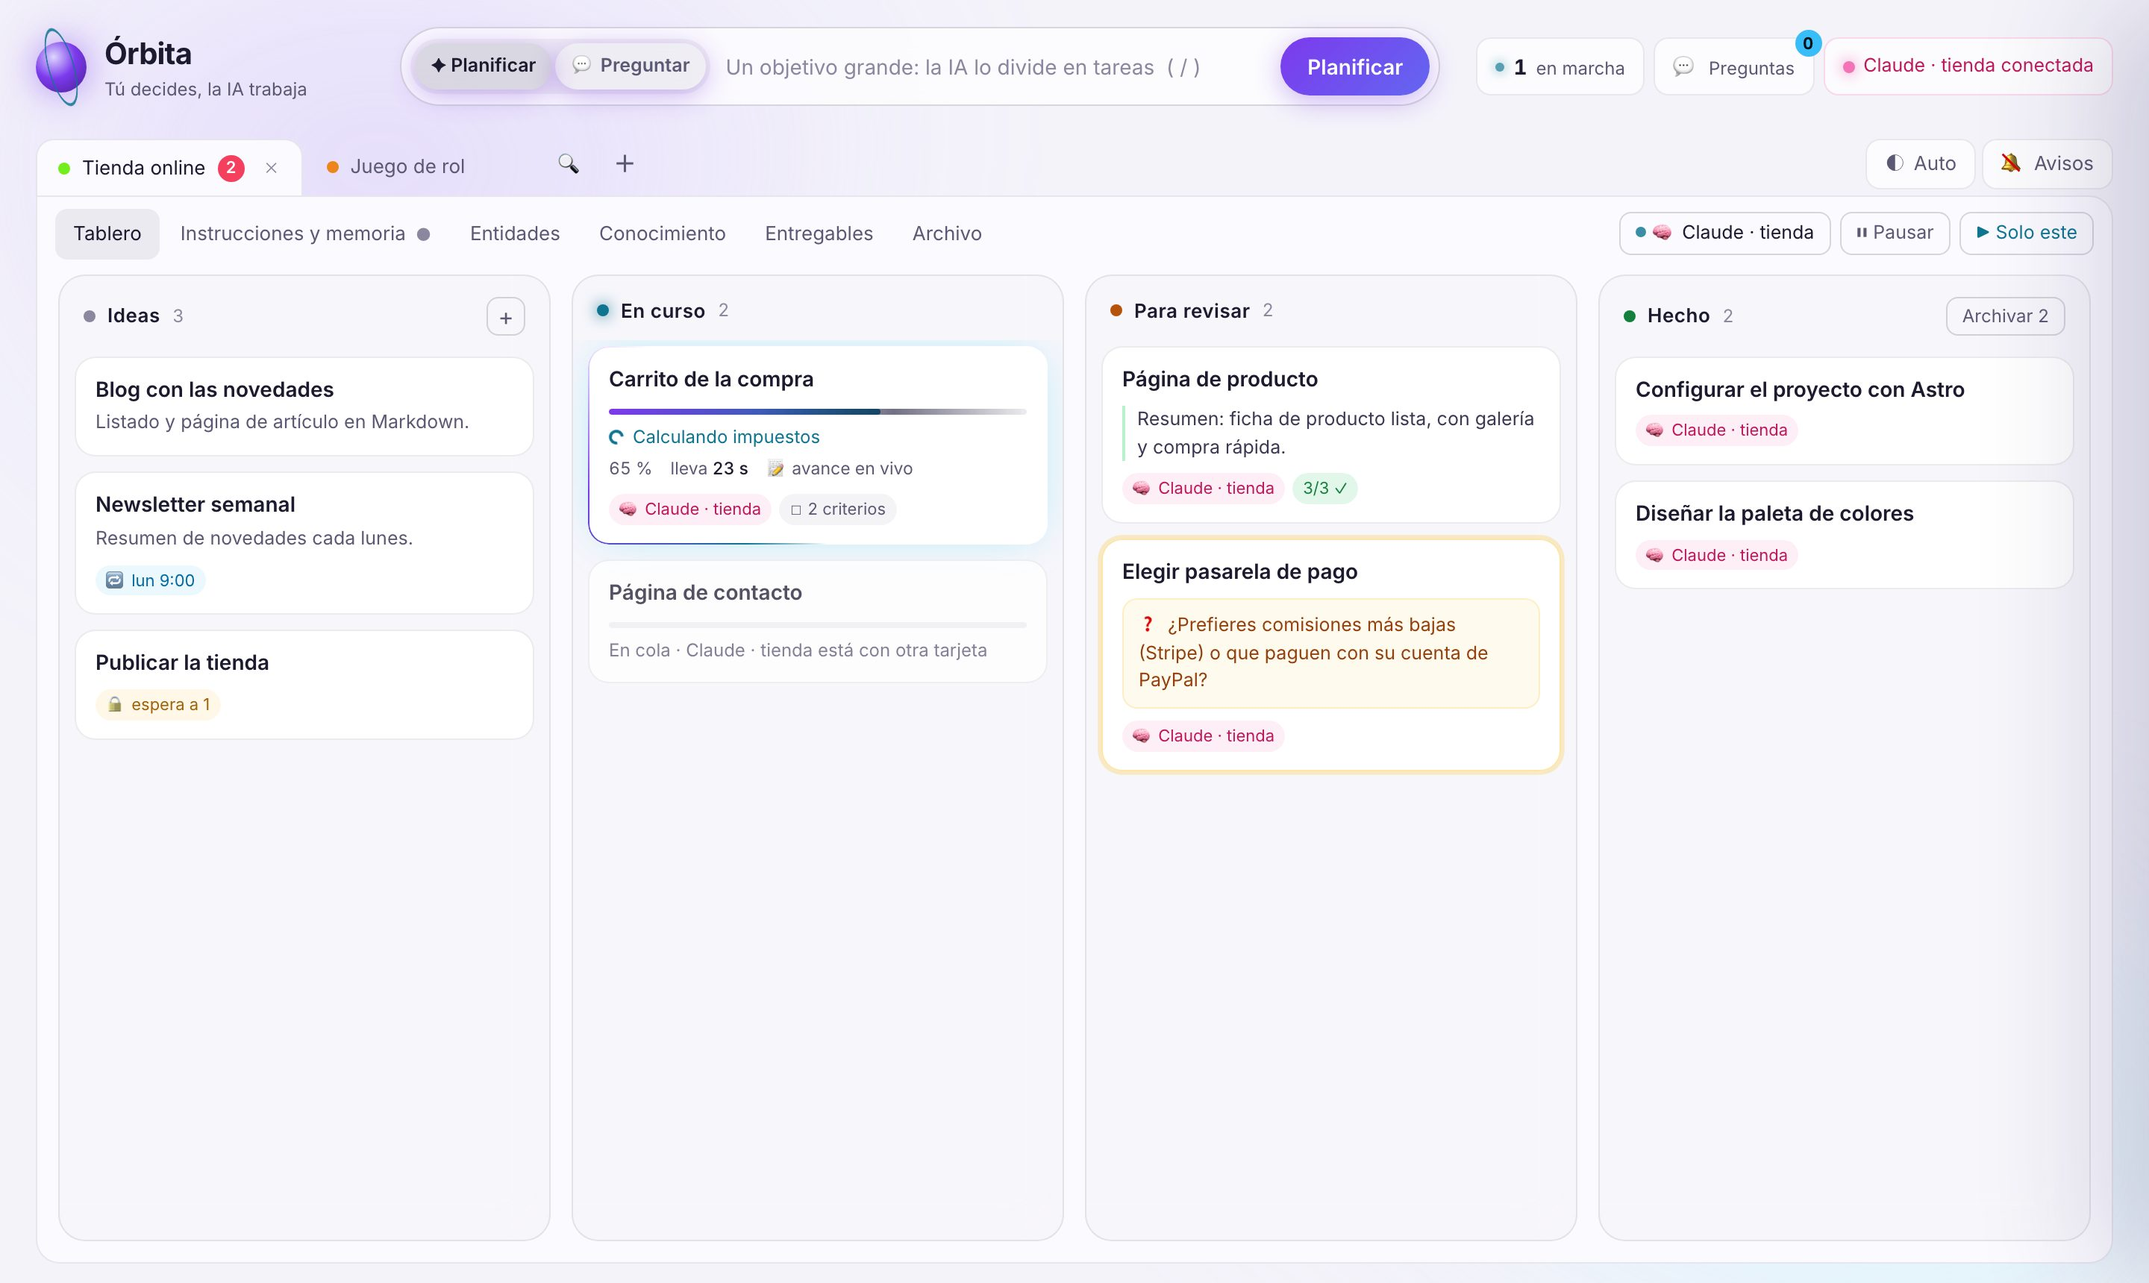
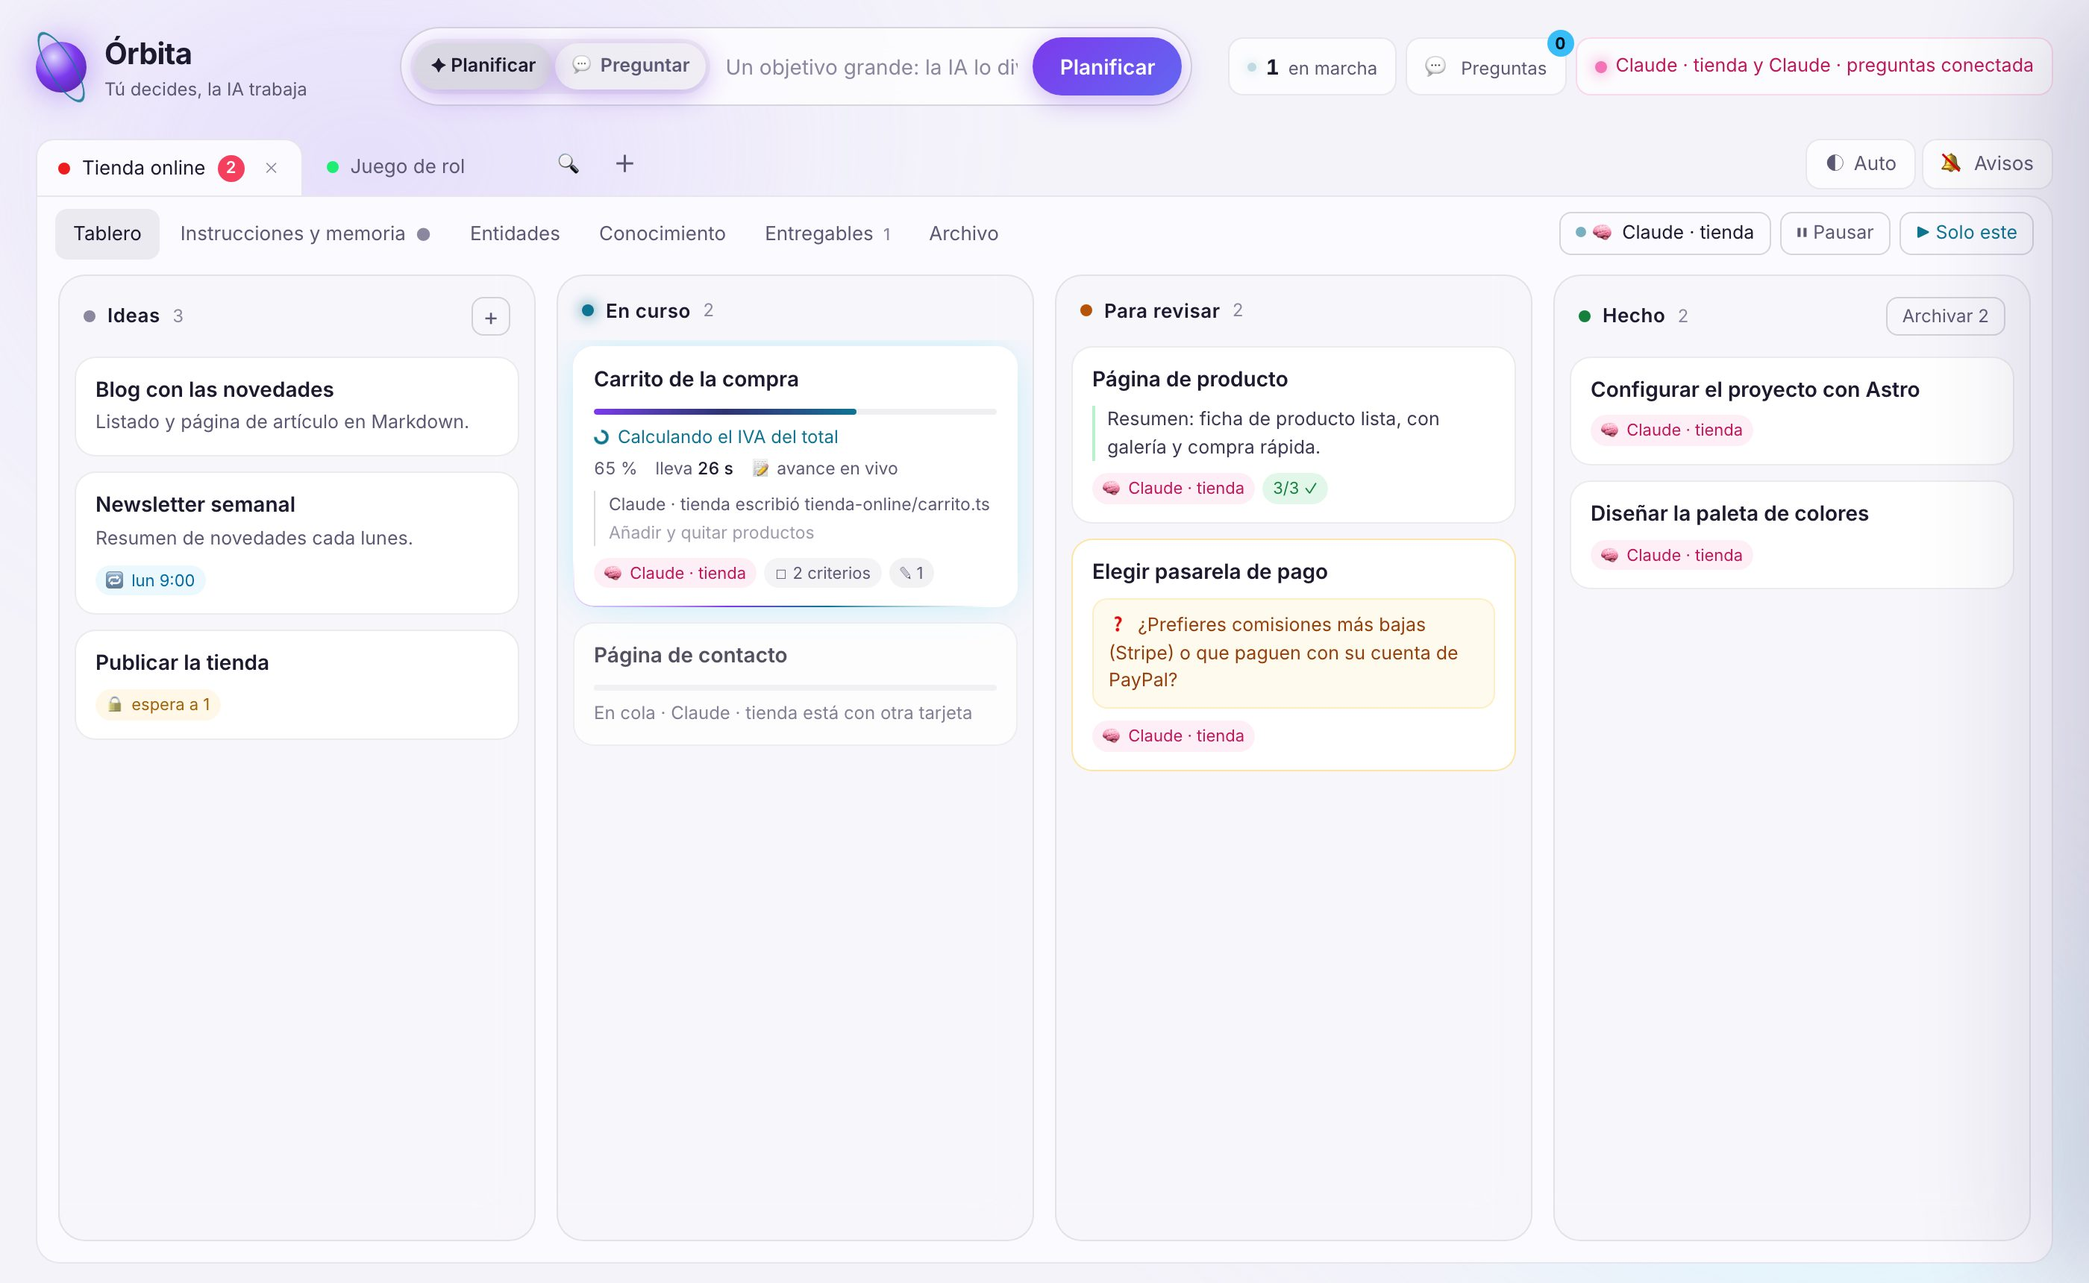
Web: ciclo de una tarjeta, usos, herramientas de la IA y por dentro
Capturas nuevas (En vivo, preguntas de la IA, preguntas rápidas) y secciones
para la vida de una tarjeta, para qué sirve, las herramientas MCP de la IA,
cómo funciona por dentro, atajos, requisitos, configuración de otras IAs y
más preguntas frecuentes.

diff --git a/web/index.html b/web/index.html
@@ -17,7 +17,8 @@
     <nav aria-label="Secciones">
       <a href="#como">Cómo funciona</a>
       <a href="#funciones">Qué hace</a>
-      <a href="#privacidad">Privacidad</a>
+      <a href="#usos">Para qué</a>
+      <a href="#dentro">Por dentro</a>
       <a href="#empezar" class="boton pequeno">Empezar</a>
     </nav>
   </header>
@@ -73,6 +74,14 @@
         <div class="nodo"><b>Tu IA</b><span>Claude Code, Cursor…</span></div>
         <div class="carpeta"><b>📁 carpeta del proyecto</b><span>tu código y <code>orbita/</code> con el tablero y los entregables</span></div>
       </div>
+
+      <h3 class="titulo-bloque">La vida de una tarjeta</h3>
+      <ol class="ciclo">
+        <li class="c-ideas"><b>Ideas</b><span>La creas tú (o la IA, al planificar un objetivo). Puede llevar criterios, adjuntos, dependencias o repetirse cada semana.</span></li>
+        <li class="c-curso"><b>En curso</b><span><i>En cola</i> hasta que una IA la toma; luego <i>Trabajando</i>, con su progreso en vivo. Si le falta algo, <i>Te pregunta</i> y espera.</span></li>
+        <li class="c-revisar"><b>Para revisar</b><span>La IA entrega el resultado y revisa cada criterio. Tú lees, y <i>Apruebas</i> o le <i>Respondes</i>: vuelve a «En curso» con tu mensaje.</span></li>
+        <li class="c-hecho"><b>Hecho</b><span>Queda con todas sus versiones. Si otras tarjetas la esperaban, se desbloquean solas. Luego se archiva.</span></li>
+      </ol>
     </section>
 
     <section id="funciones" class="seccion">
@@ -80,9 +89,15 @@
       <div class="destacado">
         <div class="texto">
           <h3>La ves trabajar, en vivo</h3>
-          <p>Cada tarjeta muestra el paso actual, el porcentaje y cuánto lleva. En su panel, la pestaña <b>En vivo</b> enseña lo que va produciendo antes de entregar. Si le escribes mientras trabaja, lo lee en su siguiente paso, sin detenerse.</p>
+          <p>Cada tarjeta muestra el paso actual, el porcentaje y cuánto lleva. En su panel, la pestaña <b>En vivo</b> reúne todo:</p>
+          <ul class="lista">
+            <li>el paso, la barra de progreso y <b>hace cuánto dio señales de vida</b> (si se calla más de 3 minutos, te avisa);</li>
+            <li>su avance escrito: lo hecho, lo que hace ahora y lo que sigue;</li>
+            <li>la <b>historia de pasos</b> y los archivos que va escribiendo.</li>
+          </ul>
+          <p>Si le escribes mientras trabaja, lo lee en su siguiente paso, sin detenerse.</p>
         </div>
-        <figure class="captura"><img src="img/panel-en-vivo.jpg" width="1360" height="1100" loading="lazy" alt="Panel de una tarjeta en curso con su avance en vivo" /></figure>
+        <figure class="captura"><img src="img/panel-en-vivo.jpg" width="1360" height="1640" loading="lazy" alt="Panel de una tarjeta en curso con su avance en vivo" /></figure>
       </div>
       <div class="destacado al-reves">
         <div class="texto">
@@ -98,6 +113,20 @@
         </div>
         <figure class="captura"><img src="img/entidades.jpg" width="2400" height="1650" loading="lazy" alt="Entidades de un juego de rol agrupadas por categoría: personajes, armas, objetos" /></figure>
       </div>
+      <div class="destacado al-reves">
+        <div class="texto">
+          <h3>Te pregunta cuando le falta algo</h3>
+          <p>Si la IA necesita una decisión que solo tú puedes tomar, la tarjeta se pone en ámbar y te lo pregunta. Respondes ahí mismo y sigue. Todo pasa en el tablero: nunca tienes que ir a su chat.</p>
+        </div>
+        <figure class="captura"><img src="img/panel-pregunta.jpg" width="1360" height="1040" loading="lazy" alt="Una tarjeta en la que la IA pregunta qué pasarela de pago prefieres" /></figure>
+      </div>
+      <div class="destacado">
+        <div class="texto">
+          <h3>Preguntas rápidas</h3>
+          <p>Para lo que no merece una tarjeta: pregúntale y responde al momento, con el contexto del proyecto (sus instrucciones, su memoria y sus archivos de referencia). Puedes dejar una IA dedicada solo a esto, y cualquier respuesta se convierte en tarjeta con un clic.</p>
+        </div>
+        <figure class="captura"><img src="img/preguntas.jpg" width="1360" height="900" loading="lazy" alt="Panel de preguntas rápidas con una respuesta de la IA" /></figure>
+      </div>
 
       <ul class="rejilla">
         <li><b>🧠 Una IA por proyecto</b><span>Dos proyectos avanzan a la vez, cada uno con su sesión de IA.</span></li>
@@ -108,7 +137,68 @@
         <li><b>⌘K Búsqueda y comandos</b><span>Busca en todo (también lo archivado) y haz cualquier cosa sin el ratón.</span></li>
         <li><b>▶ Vista previa segura</b><span>Las páginas y juegos que hace la IA funcionan dentro, aislados del tablero.</span></li>
         <li><b>↻ Versiones y exportar</b><span>Cada entrega es una versión; cópiala, descárgala en .md, como página o en PDF.</span></li>
+        <li><b>🔒 Dependencias</b><span>«Espera a…»: una tarjeta no empieza hasta que terminan aquellas de las que depende.</span></li>
+        <li><b>⏸ Pausa y prioridad</b><span>Pausa un proyecto o dale prioridad total con «Solo este». La IA lo retoma donde lo dejó.</span></li>
+        <li><b>📎 Adjuntos y conocimiento</b><span>Arrastra archivos a una tarjeta o al proyecto: la IA los recibe como material de trabajo.</span></li>
+        <li><b>🧩 Plantillas</b><span>Investigación, informe, revisión de código, corregir un fallo… y las tuyas, con {campos} para rellenar.</span></li>
+        <li><b>🗂 Memoria e instrucciones</b><span>Reglas fijas por proyecto y una memoria que la IA va actualizando entre tarjetas.</span></li>
+        <li><b>🗑 Papelera</b><span>Lo que borra una IA no se pierde: aviso con «Deshacer» y 30 días para restaurarlo.</span></li>
+        <li><b>🔔 Avisos</b><span>«(2) Órbita» en la pestaña, aviso del navegador y un sonido suave cuando te entrega o te pregunta.</span></li>
+        <li><b>◐ Claro y oscuro</b><span>Sigue al sistema o elige tú. Y en su propia ventana, como una aplicación.</span></li>
       </ul>
+    </section>
+
+    <section id="usos" class="seccion">
+      <h2>Para qué sirve</h2>
+      <p class="sub">Para cualquier trabajo que tu IA pueda hacer en una carpeta de tu ordenador.</p>
+      <ul class="usos">
+        <li><span class="u-ico">💻</span><b>Desarrollar software</b><span>Pon el backlog de tu app en el tablero y deja que la IA vaya tomando tarjetas: implementa, prueba y te entrega con capturas. Tú revisas y apruebas, como en un equipo.</span></li>
+        <li><span class="u-ico">🔎</span><b>Investigar e informar</b><span>«Investigar {tema}» o «Informe de {asunto}» con criterios claros: la IA busca, compara, cita fuentes y deja el informe como entregable.</span></li>
+        <li><span class="u-ico">🎮</span><b>Juegos, historias y mundos</b><span>Las entidades guardan personajes, objetos y lugares, y la IA los consulta en cada tarea para que todo encaje.</span></li>
+        <li><span class="u-ico">🔁</span><b>Rutinas</b><span>Un resumen cada lunes, una revisión diaria, un informe el día 1 de cada mes: tarjetas programadas que la IA hace sola.</span></li>
+      </ul>
+    </section>
+
+    <section id="ia" class="seccion">
+      <h2>Lo que puede hacer la IA</h2>
+      <p class="sub">Órbita le ofrece 24 herramientas por <a href="https://modelcontextprotocol.io">MCP</a>. Estas son las principales:</p>
+      <div class="herramientas">
+        <div><h3>Trabajar</h3><ul>
+          <li><code>wait_for_work</code> espera hasta que hay una tarjeta para ella y la toma</li>
+          <li><code>report_progress</code> informa del paso, el porcentaje y el avance en vivo</li>
+          <li><code>submit_result</code> entrega el resultado, con la revisión de cada criterio</li>
+          <li><code>ask_human</code> te pregunta cuando le falta una decisión</li>
+        </ul></div>
+        <div><h3>Organizar</h3><ul>
+          <li><code>open_project</code> crea o abre un proyecto en su carpeta y se queda escuchándolo</li>
+          <li><code>create_card</code>, <code>update_card</code>, <code>move_card</code> planifica en tarjetas, con dependencias</li>
+          <li><code>delete_card</code>, <code>restore_card</code> borra a la papelera (y restaura)</li>
+          <li><code>add_comment</code> te deja una nota sin entregar</li>
+        </ul></div>
+        <div><h3>Recordar</h3><ul>
+          <li><code>update_memory</code> guarda lo aprendido para las próximas tarjetas</li>
+          <li><code>save_entity</code>, <code>list_entities</code> mantiene las entidades del proyecto</li>
+          <li><code>get_secret</code> lee una clave del proyecto sin que aparezca en el tablero</li>
+          <li><code>answer_question</code> responde las preguntas rápidas</li>
+        </ul></div>
+        <div><h3>Archivos</h3><ul>
+          <li><code>write_file</code> guarda entregables (informes, capturas, páginas…) en <code>orbita/</code></li>
+          <li><code>read_file</code>, <code>list_files</code> lee adjuntos, conocimiento y entregables</li>
+          <li>Y, con sus propias herramientas, trabaja en el código de tu carpeta</li>
+        </ul></div>
+      </div>
+    </section>
+
+    <section id="dentro" class="seccion">
+      <h2>Por dentro</h2>
+      <div class="dentro">
+        <div><b>Un servidor pequeño en tu equipo</b><span>Node.js, sin dependencias pesadas, escuchando solo en <code>127.0.0.1:4321</code>. Sirve el tablero y el MCP (<code>/mcp</code>, HTTP «streamable»), y avisa a la página en vivo.</span></div>
+        <div><b>La IA espera sin gastar</b><span><code>wait_for_work</code> mantiene la llamada abierta hasta que hay trabajo: en cuanto mueves una tarjeta a «En curso», la recibe.</span></div>
+        <div><b>Todo en archivos</b><span>Cada proyecto se guarda en <code>orbita/tablero.json</code> dentro de su carpeta, con escritura atómica. La lista de proyectos y los secretos, en la carpeta de datos del sistema.</span></div>
+        <div><b>Seguro por diseño</b><span>Rechaza otras webs (<code>Host</code> y <code>Origin</code>), CSP estricta y vista previa en un origen aislado con clave. Los valores de los secretos nunca llegan al tablero.</span></div>
+        <div><b>Un solo ejecutable</b><span>Node, el servidor y la interfaz en un archivo para macOS (<code>Órbita.app</code>), Windows y Linux. Funciona sin internet.</span></div>
+        <div><b>Código abierto</b><span>Está en <a href="https://github.com/osmely/orbita">GitHub</a>, con pruebas automáticas (<code>npm test</code>).</span></div>
+      </div>
     </section>
 
     <section id="privacidad" class="seccion privacidad">
@@ -139,7 +229,42 @@ npm start</code></pre>
           <pre><code>claude mcp add --transport http --scope user orbita http://localhost:4321/mcp</code></pre>
           <p>Después, en cualquier sesión:</p>
           <pre><code>/mcp__orbita__trabajar</code></pre>
-          <p class="nota">Para Cursor, Claude Desktop y otras, el botón <b>Conectar IA</b> del tablero da la configuración lista para copiar.</p>
+          <details class="otras"><summary>Cursor, Windsurf, VS Code</summary><pre><code>{
+  "mcpServers": {
+    "orbita": { "url": "http://localhost:4321/mcp" }
+  }
+}</code></pre></details>
+          <details class="otras"><summary>Claude Desktop</summary><pre><code>{
+  "mcpServers": {
+    "orbita": {
+      "command": "npx",
+      "args": ["-y", "mcp-remote", "http://localhost:4321/mcp"]
+    }
+  }
+}</code></pre></details>
+          <p class="nota">También puedes pedírselo con tus palabras: <i>«Abre en Órbita un proyecto aquí y quédate escuchando»</i>.</p>
+        </div>
+      </div>
+      <div class="columnas">
+        <div class="tarjeta">
+          <h3>Atajos de teclado</h3>
+          <ul class="atajos">
+            <li><kbd>⌘</kbd> <kbd>K</kbd> buscar en todo y comandos</li>
+            <li><kbd>N</kbd> nueva tarjeta</li>
+            <li><kbd>/</kbd> escribir un objetivo</li>
+            <li><kbd>?</kbd> pregunta rápida</li>
+            <li><kbd>Alt</kbd> <kbd>↑</kbd><kbd>↓</kbd> mover la tarjeta abierta</li>
+            <li><kbd>Esc</kbd> cerrar</li>
+          </ul>
+        </div>
+        <div class="tarjeta">
+          <h3>Requisitos</h3>
+          <ul class="lista">
+            <li>macOS, Windows o Linux.</li>
+            <li>Un navegador moderno; con Chrome, Edge o Brave se abre en su propia ventana.</li>
+            <li>Una IA con MCP: Claude Code, Cursor, Claude Desktop…</li>
+            <li>Desde el código: Node 22 o posterior.</li>
+          </ul>
         </div>
       </div>
     </section>
@@ -150,6 +275,9 @@ npm start</code></pre>
       <details><summary>¿Funciona sin IA?</summary><p>Sí: es un kanban normal. Creas tarjetas, las arrastras y escribes los resultados tú. Si no hay ninguna IA conectada, las tarjetas de «En curso» esperan en cola.</p></details>
       <details><summary>¿Necesita internet?</summary><p>Órbita no: la interfaz lleva dentro sus fuentes y librerías. Tu IA sí lo necesitará para funcionar.</p></details>
       <details><summary>¿Puedo tener varios proyectos a la vez?</summary><p>Sí. Cada proyecto es una pestaña con su carpeta de trabajo, y puedes darle a cada uno su propia IA para que avancen en paralelo.</p></details>
+      <details><summary>¿Qué pasa si cierro la ventana?</summary><p>Órbita sigue en marcha y la IA puede seguir trabajando. Para cerrarla del todo: ⌘K → «Cerrar Órbita». Al abrirla otra vez, todo está donde lo dejaste.</p></details>
+      <details><summary>¿Y si la IA se equivoca?</summary><p>Nada se da por bueno sin ti: cada entrega va a «Para revisar». Le respondes con lo que falta y lo rehace; cada entrega queda como versión, con «Ver cambios» respecto a la anterior.</p></details>
+      <details><summary>¿Puedo quitarle una tarjeta a la IA?</summary><p>Sí: muévela, pausa su proyecto o pulsa «Quitársela». La IA recibe un aviso para que se detenga; si fue una pausa, lo que llevaba se conserva y la retoma al reanudar.</p></details>
     </section>
   </main>
 

diff --git a/web/estilos.css b/web/estilos.css
@@ -150,3 +150,39 @@ pre code { background: none; border: 0; padding: 0; }
   .pasos, .rejilla { grid-template-columns: 1fr; }
   .seccion { padding-top: 64px; }
 }
+
+/* Secciones añadidas: ciclo de una tarjeta, usos, herramientas de la IA, por dentro, atajos */
+.titulo-bloque { text-align: center; margin: 56px 0 18px; font-size: 22px; }
+.ciclo { list-style: none; padding: 0; margin: 0; display: grid; grid-template-columns: repeat(4, 1fr); gap: 12px; counter-reset: ciclo; }
+.ciclo li { position: relative; display: flex; flex-direction: column; gap: 6px; padding: 18px 18px 18px 20px; border-radius: 14px; background: var(--panel); border: 1px solid var(--borde); border-top: 3px solid var(--c, var(--violeta)); }
+.ciclo b { font-size: 16px; }
+.ciclo span { color: var(--tenue); font-size: 14px; line-height: 1.55; }
+.ciclo i { font-style: normal; color: var(--texto); font-weight: 600; }
+.ciclo li:not(:last-child)::after { content: "→"; position: absolute; right: -11px; top: 50%; transform: translateY(-50%); color: var(--muy-tenue); font-size: 14px; z-index: 1; }
+.c-ideas { --c: #8b8aa0; } .c-curso { --c: #22d3ee; } .c-revisar { --c: #f59e0b; } .c-hecho { --c: #22c55e; }
+.lista { margin: 10px 0 12px; padding-left: 20px; color: var(--tenue); }
+.lista li { margin: 4px 0; }
+.usos { list-style: none; padding: 0; margin: 0; display: grid; grid-template-columns: 1fr 1fr; gap: 14px; }
+.usos li { display: grid; grid-template-columns: auto 1fr; column-gap: 14px; row-gap: 4px; padding: 20px; border-radius: 16px; background: var(--panel); border: 1px solid var(--borde); }
+.u-ico { grid-row: span 2; font-size: 28px; line-height: 1; }
+.usos b { font-size: 17px; }
+.usos span:not(.u-ico) { color: var(--tenue); font-size: 15px; }
+.herramientas { display: grid; grid-template-columns: repeat(4, 1fr); gap: 14px; }
+.herramientas > div { padding: 18px; border-radius: 16px; background: var(--panel); border: 1px solid var(--borde); min-width: 0; }
+.herramientas ul { list-style: none; padding: 0; margin: 8px 0 0; display: grid; gap: 10px; }
+.herramientas li { color: var(--tenue); font-size: 14px; line-height: 1.5; }
+.herramientas code { color: var(--texto); }
+.dentro { display: grid; grid-template-columns: repeat(3, 1fr); gap: 14px; margin-top: 32px; }
+.dentro > div { display: flex; flex-direction: column; gap: 6px; padding: 18px; border-radius: 14px; background: var(--panel); border: 1px solid var(--borde); }
+.dentro span { color: var(--tenue); font-size: 14px; line-height: 1.55; }
+.columnas + .columnas { margin-top: 18px; }
+.otras { margin: 0 0 10px; }
+.otras summary { cursor: pointer; color: var(--tenue); font-size: 14px; margin-bottom: 8px; }
+.atajos { list-style: none; padding: 0; margin: 0; display: grid; gap: 10px; color: var(--tenue); }
+kbd { display: inline-block; min-width: 22px; padding: 1px 6px; border-radius: 6px; border: 1px solid var(--borde); border-bottom-width: 2px; background: var(--fondo-2); color: var(--texto); font: 600 12px/1.6 ui-monospace, Menlo, monospace; text-align: center; }
+@media (max-width: 900px) {
+  .ciclo, .herramientas, .dentro { grid-template-columns: 1fr 1fr; }
+  .ciclo li:not(:last-child)::after { display: none; }
+  .usos { grid-template-columns: 1fr; }
+}
+@media (max-width: 600px) { .ciclo, .herramientas, .dentro { grid-template-columns: 1fr; } }
